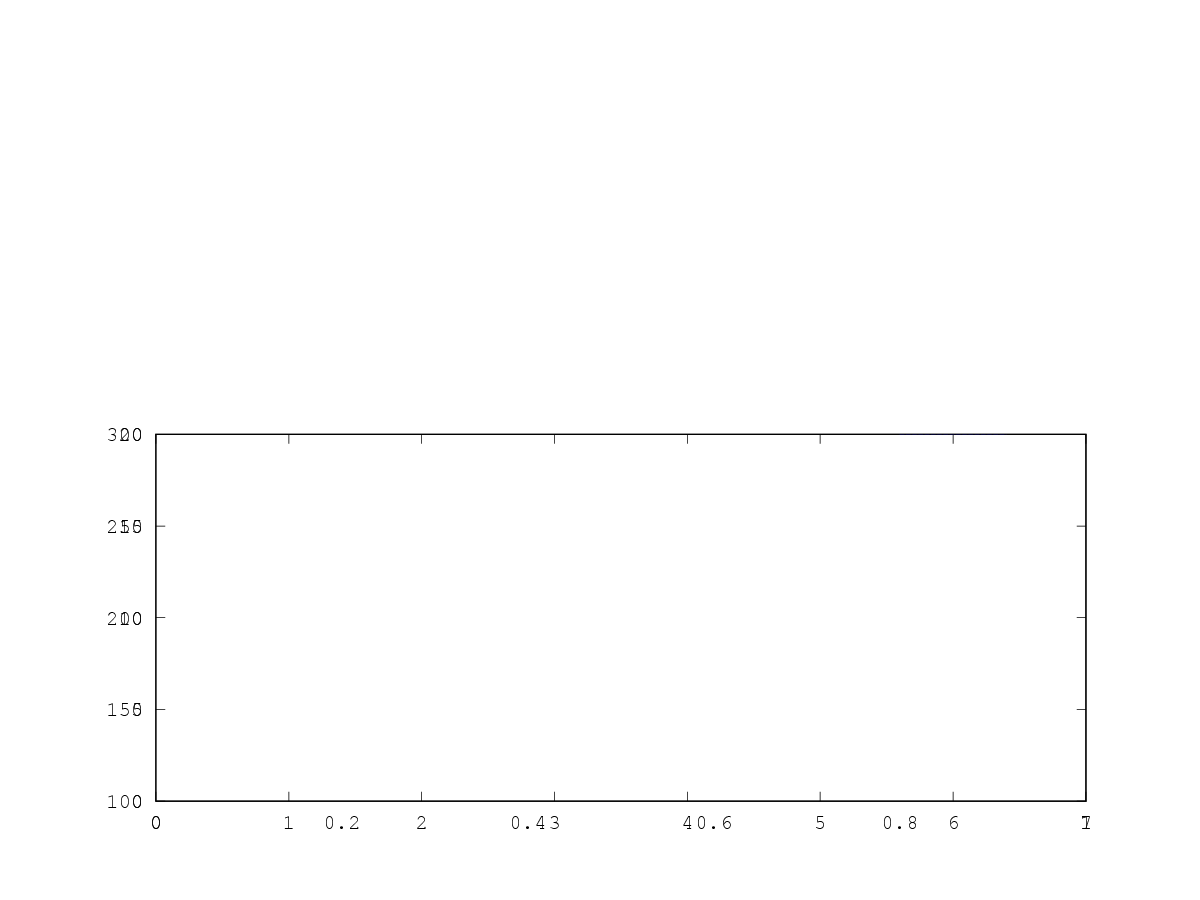
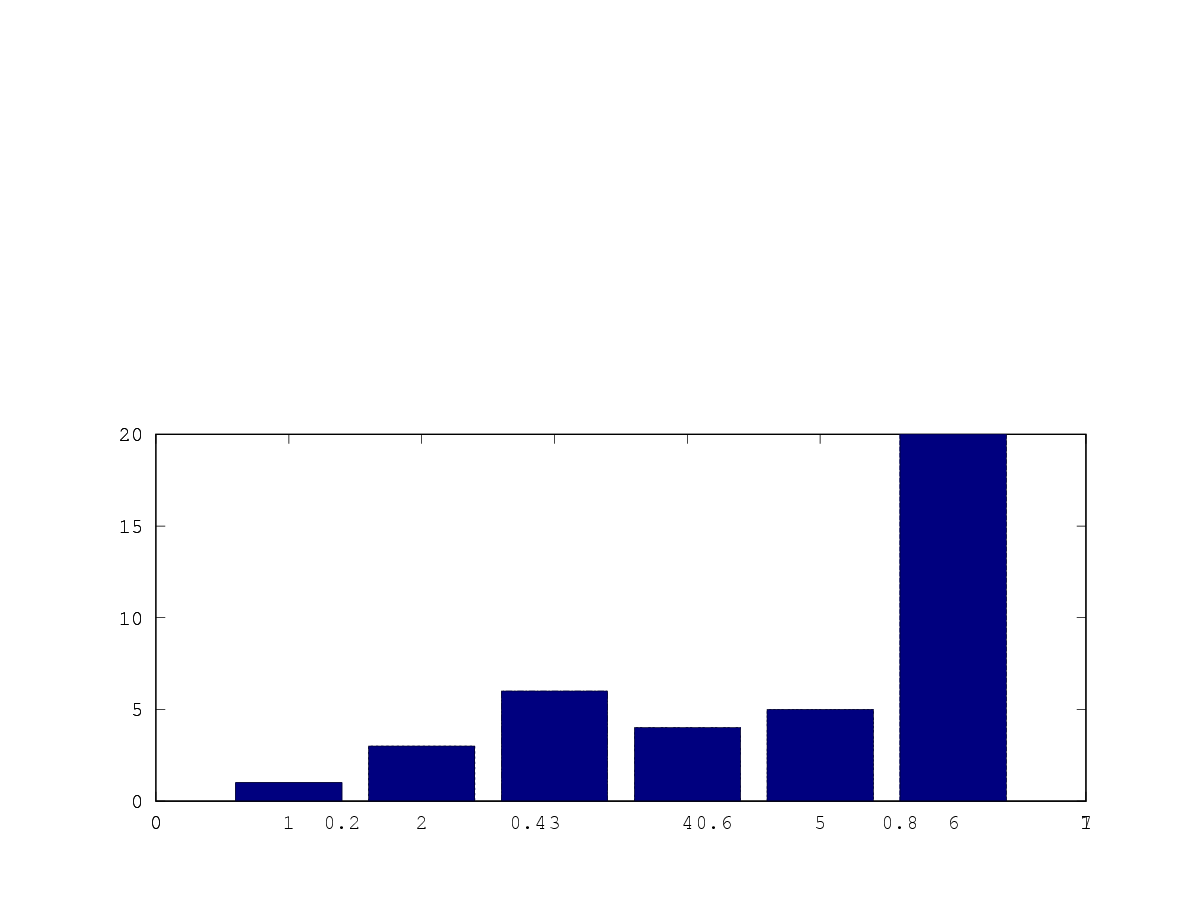
break_axis.m

Changed region(s): [[0.185, 0.4667, 0.8633, 0.9022], [0.0925, 0.56, 0.1233, 0.5911]]

diff --git a/break_axis.m b/break_axis.m
@@ -30,7 +30,8 @@ a2=axes('position',[p0(1) p0(2) p0(3) p0(4)/2]);
 %barh(a);
 bar(a);
 
-set(a2,'ylim',ylim2);
+set(a2,'ylim',ylim1);
+%set(a2,'ylim',ylim2);
 %set(a2,'xlim',xlim,'ylim',ylim2);
 %set(a2,'xtick',[]);
 %set(a2,'xcolor',get(a2,'color'));
